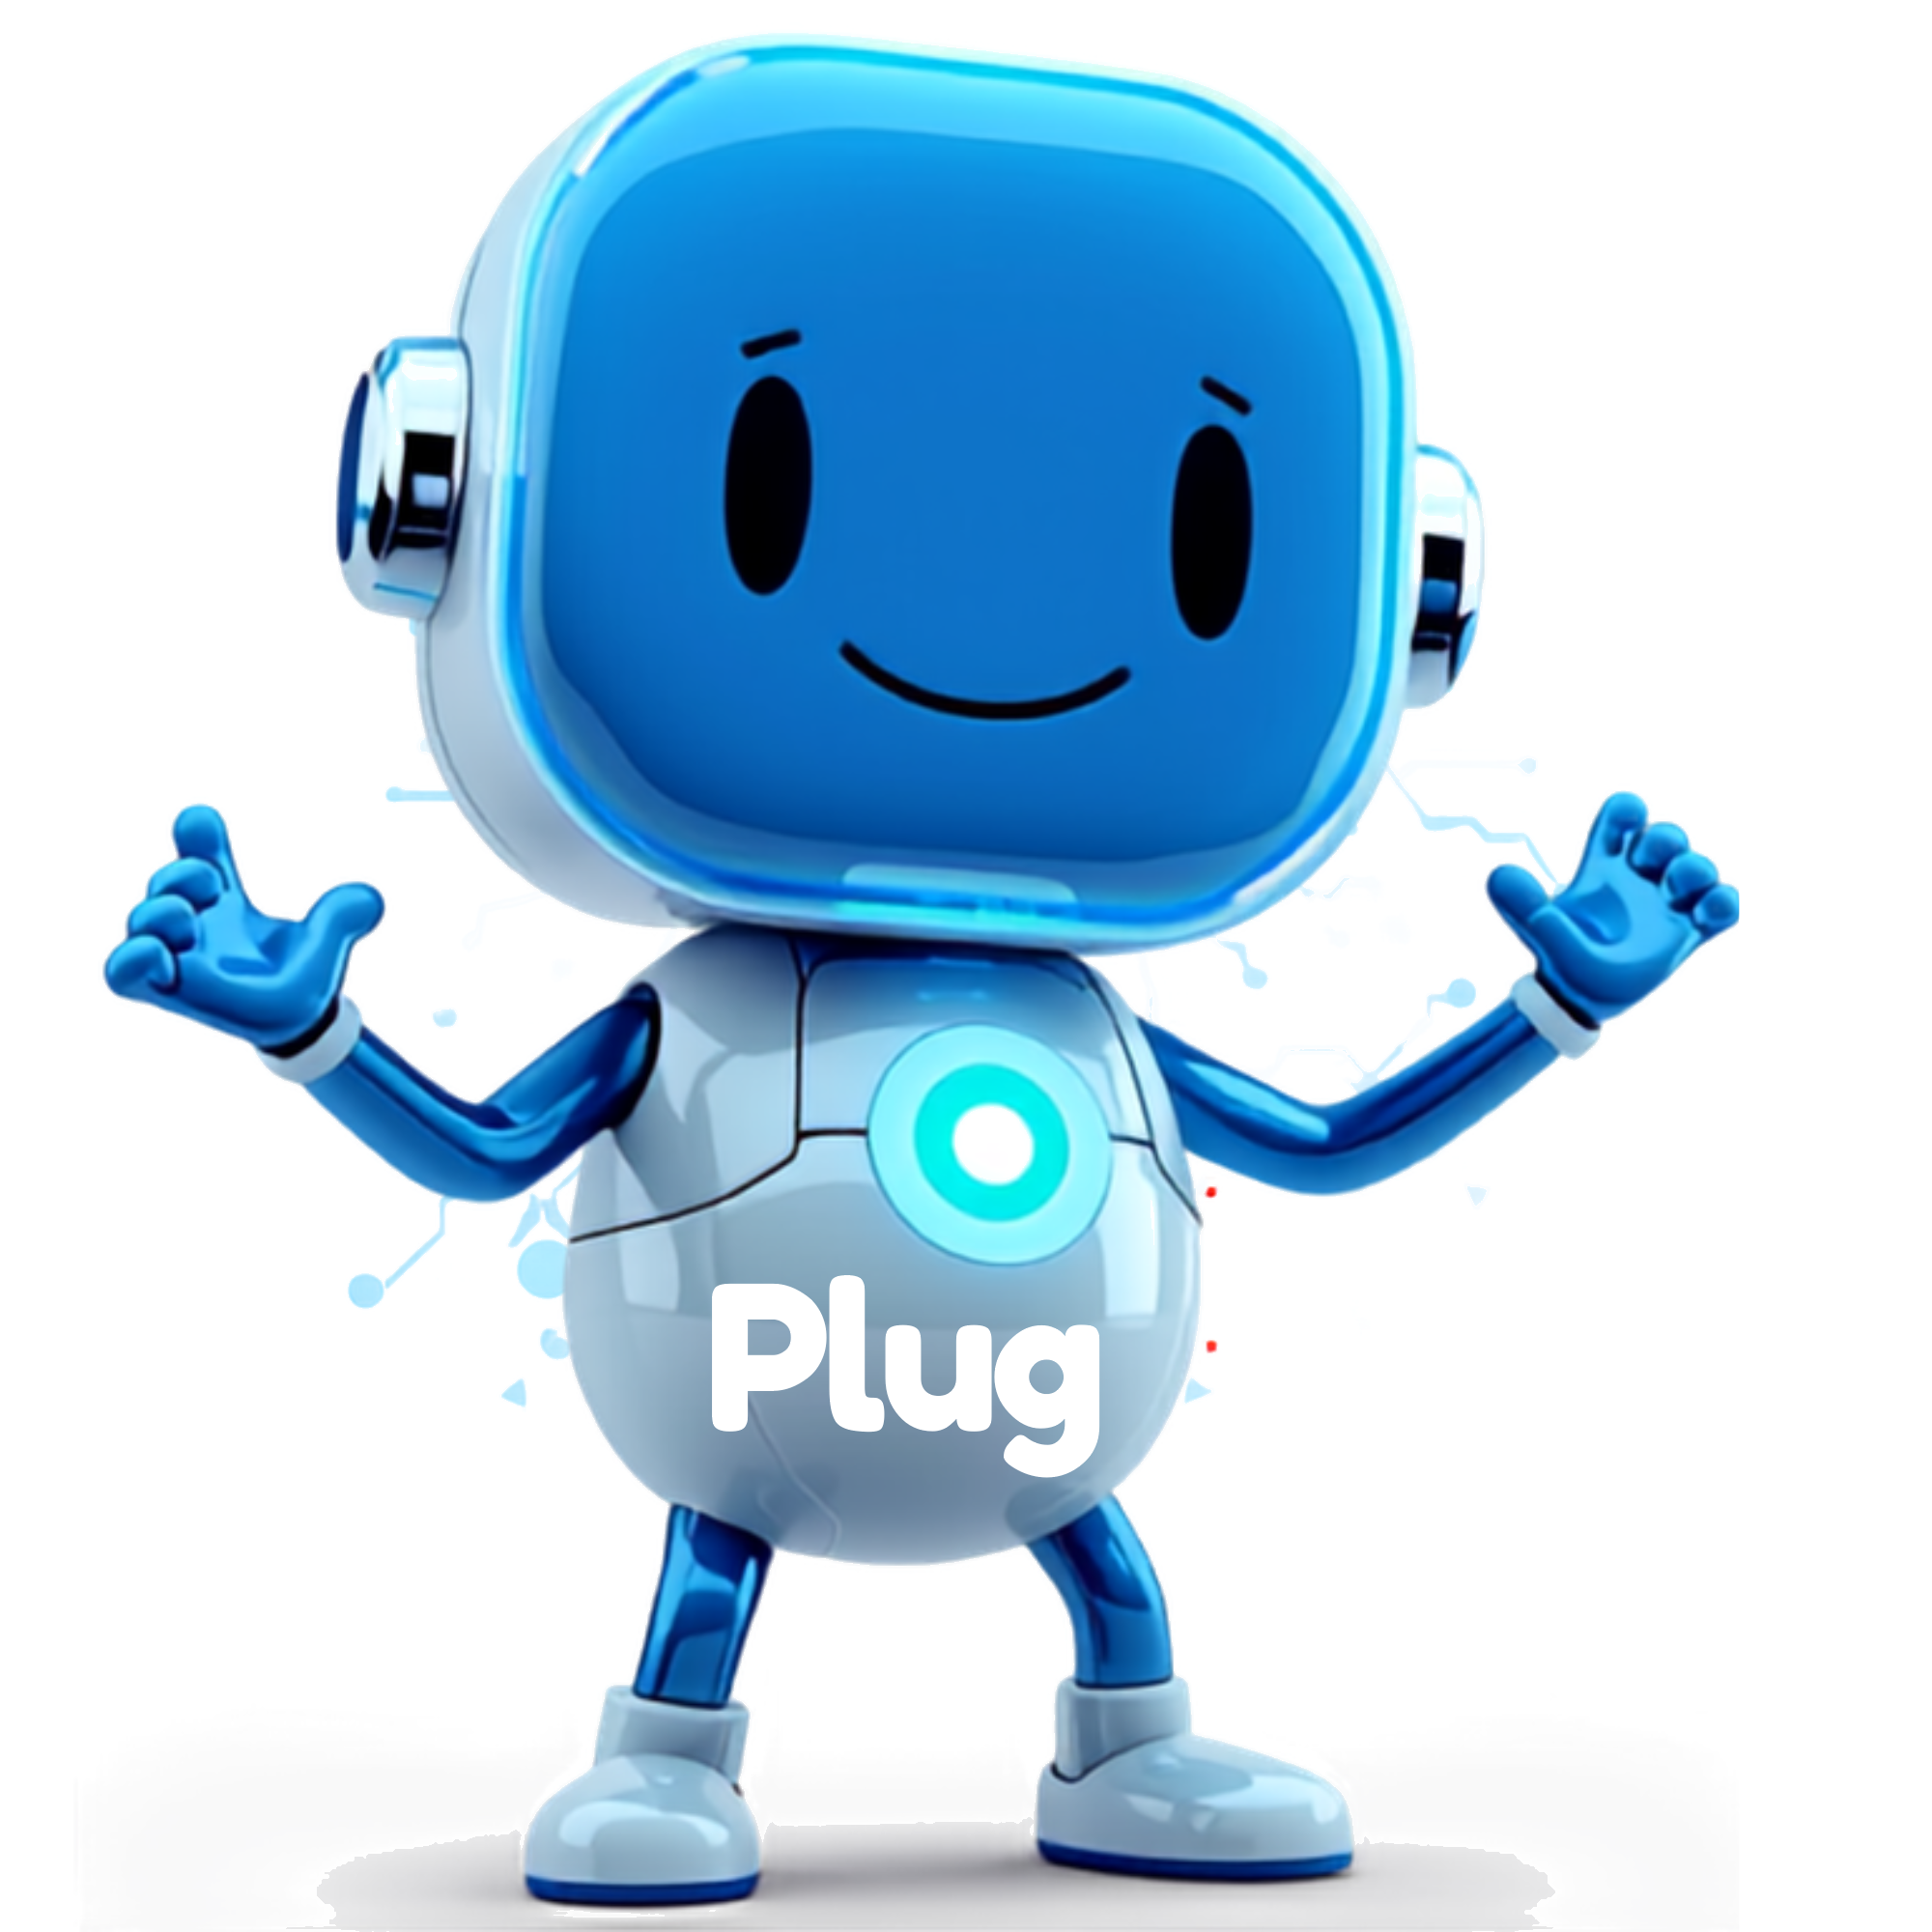
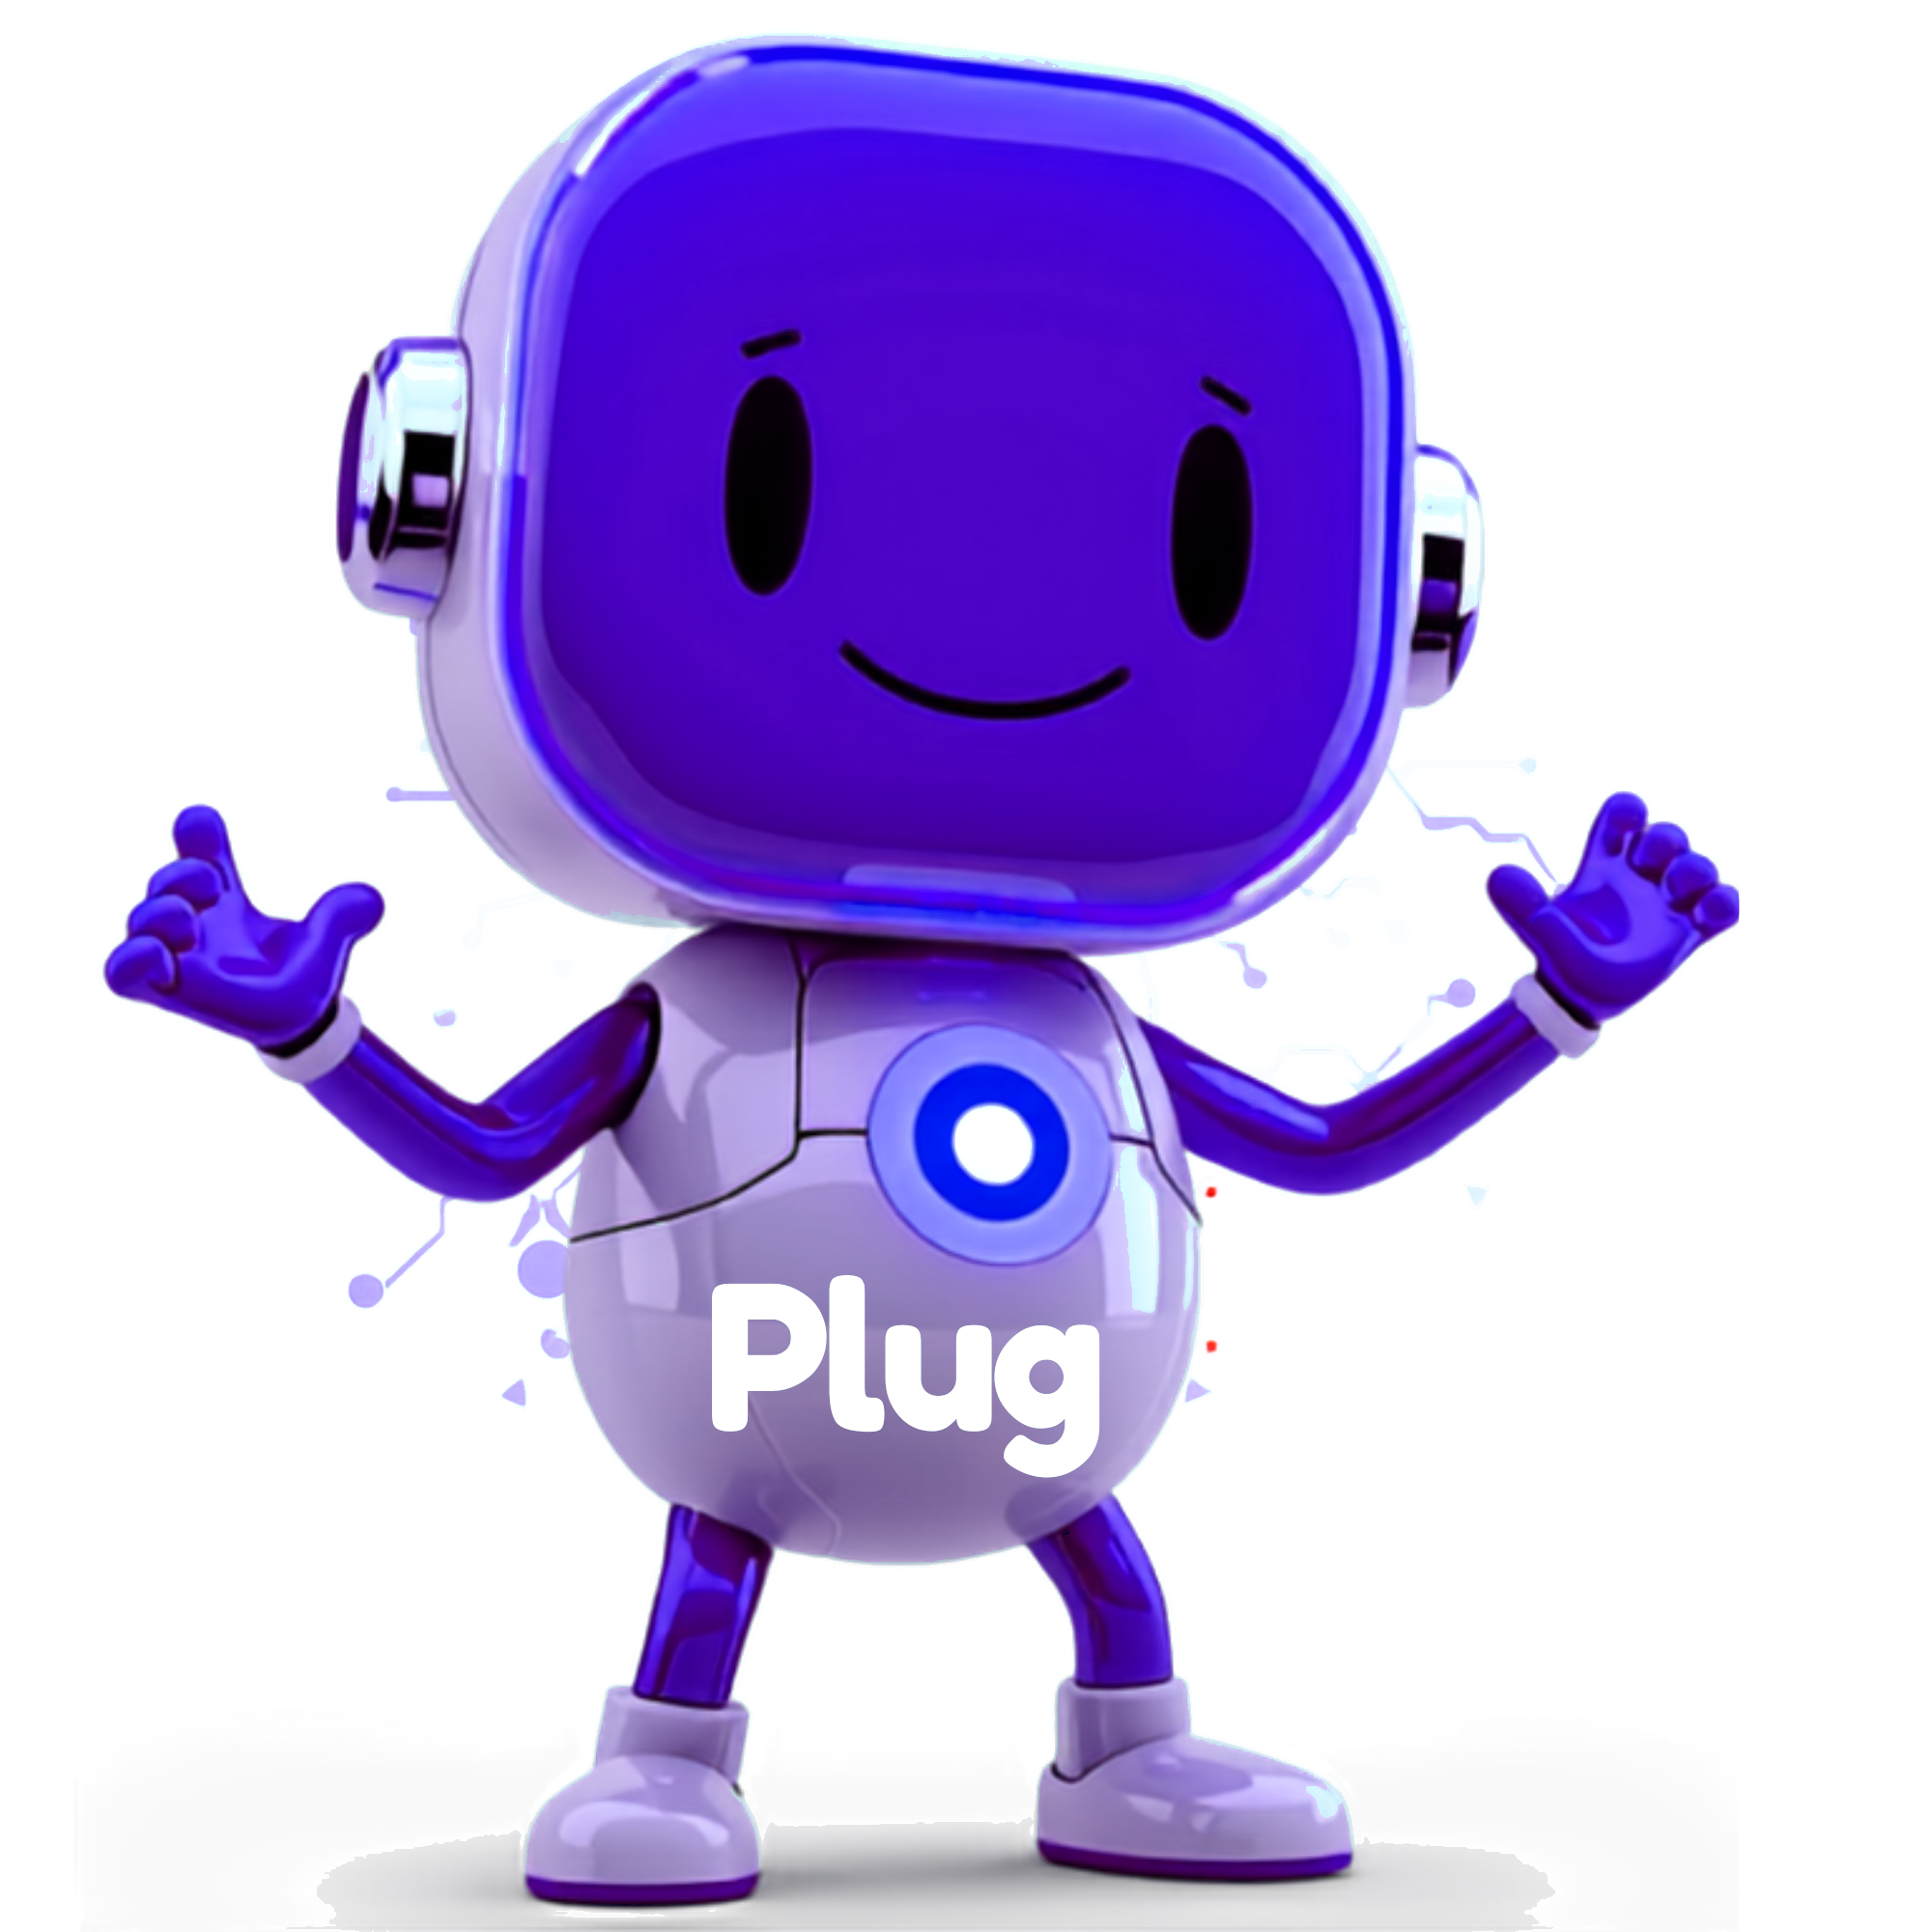
auto-commit for c1f267dc-94a0-4358-bf0f-ec2353e083d0

diff --git a/frontend/src/components/Industries.jsx b/frontend/src/components/Industries.jsx
@@ -1,61 +1,227 @@
 import { motion } from "framer-motion";
 import { INDUSTRIES, INDUSTRY_ICONS } from "../lib/constants";
-import { Sparkles, TrendingUp, Activity, BarChart3 } from "lucide-react";
+import { Sparkles, TrendingUp, Activity, BarChart3, PieChart as PieIcon, LineChart as LineIcon, Gauge } from "lucide-react";
 
-// Mini analytics panel rendered on card BACK
-function MiniDashboard({ ind, icon: Icon }) {
-  const bars = [62, 78, 45, 90, 68, 84, 55, 73];
+// Assign a chart type to each industry so dashboards vary
+const CHART_BY_INDUSTRY = {
+  "Manufacturing": "line",
+  "Education":     "pie",
+  "Real Estate":   "bar",
+  "Call Center":   "donut",
+  "FMCG":          "bar2",
+  "Logistics":     "line2",
+  "Insurance":     "donut2",
+  "Retail":        "heat",
+};
+
+const PALETTE = ["#8B5CF6", "#A78BFA", "#C4B5FD", "#6D28D9", "#DDD6FE"];
+
+// ---------------- Chart components (lightweight, no deps) ----------------
+function BarChart({ values, color = "#8B5CF6" }) {
+  const max = Math.max(...values);
   return (
-    <div className="absolute inset-0 rounded-3xl bg-pdblack overflow-hidden border border-pdpurple/30 p-5 flex flex-col">
-      <div className="absolute inset-0 opacity-30"
-        style={{ backgroundImage: "linear-gradient(rgba(139,92,246,0.18) 1px, transparent 1px), linear-gradient(90deg, rgba(139,92,246,0.18) 1px, transparent 1px)",
-                  backgroundSize: "24px 24px" }} />
-      <div className="absolute -top-10 -right-10 size-40 rounded-full bg-pdpurple/30 blur-3xl" />
+    <div className="flex items-end gap-1.5 h-20">
+      {values.map((v, i) => (
+        <motion.div
+          key={i}
+          initial={{ height: 0 }} whileInView={{ height: `${(v / max) * 100}%` }} viewport={{ once: true }}
+          transition={{ delay: i * 0.05, duration: 0.6 }}
+          className="flex-1 rounded-t-md"
+          style={{ background: `linear-gradient(180deg, ${color} 0%, ${color}55 100%)` }}
+        />
+      ))}
+    </div>
+  );
+}
 
-      <div className="relative flex items-center gap-2 mb-3">
-        <Icon className="size-4 text-pdpurple-soft" />
-        <div className="text-[10px] uppercase tracking-[0.2em] text-pdpurple-soft font-semibold">{ind.name} · Live KPIs</div>
-      </div>
+function LineChart({ values, color = "#8B5CF6" }) {
+  const max = Math.max(...values);
+  const min = Math.min(...values);
+  const points = values.map((v, i) => {
+    const x = (i / (values.length - 1)) * 100;
+    const y = 100 - ((v - min) / (max - min || 1)) * 90 - 5;
+    return [x, y];
+  });
+  const path = points.map(([x, y], i) => (i === 0 ? `M${x},${y}` : `L${x},${y}`)).join(" ");
+  const area = `${path} L100,100 L0,100 Z`;
+  return (
+    <svg viewBox="0 0 100 100" preserveAspectRatio="none" className="w-full h-20">
+      <defs>
+        <linearGradient id="lg-fill" x1="0" x2="0" y1="0" y2="1">
+          <stop offset="0%" stopColor={color} stopOpacity="0.35" />
+          <stop offset="100%" stopColor={color} stopOpacity="0" />
+        </linearGradient>
+      </defs>
+      <path d={area} fill="url(#lg-fill)" />
+      <motion.path d={path} fill="none" stroke={color} strokeWidth="2"
+        initial={{ pathLength: 0 }} whileInView={{ pathLength: 1 }} viewport={{ once: true }}
+        transition={{ duration: 1.2 }} />
+      {points.map(([x, y], i) => (
+        <circle key={i} cx={x} cy={y} r="1.4" fill={color} />
+      ))}
+    </svg>
+  );
+}
 
-      {/* KPI tiles */}
-      <div className="relative grid grid-cols-2 gap-2 mb-3">
-        {ind.stats.map((s) => (
-          <div key={s.k} className="rounded-xl bg-white/8 border border-pdpurple/30 px-2.5 py-2 backdrop-blur">
-            <div className="text-[9px] uppercase tracking-wider text-pdpurple-soft/80">{s.k}</div>
-            <div className="font-display text-lg text-white font-semibold">{s.v}</div>
-          </div>
-        ))}
-      </div>
-
-      {/* Sparkline area */}
-      <div className="relative rounded-xl bg-white/5 border border-pdpurple/25 p-2.5 mb-2.5 flex-1 flex flex-col">
-        <div className="flex items-center justify-between text-[10px] text-pdpurple-soft/80 mb-2">
-          <span className="flex items-center gap-1"><Activity className="size-3" /> Throughput · 7d</span>
-          <span className="text-emerald-400 flex items-center gap-1"><TrendingUp className="size-3" /> ↑ {ind.roi}</span>
-        </div>
-        <div className="flex items-end gap-1 h-12">
-          {bars.map((h, i) => (
-            <div key={i} className="flex-1 rounded-t-sm bg-gradient-to-t from-pdpurple/40 to-pdpurple-soft"
-                 style={{ height: `${h}%` }} />
-          ))}
-        </div>
-      </div>
-
-      {/* Use cases */}
-      <div className="relative flex flex-wrap gap-1.5">
-        {ind.useCases.slice(0, 3).map((u) => (
-          <span key={u} className="text-[10px] px-2 py-0.5 rounded-full bg-pdpurple/20 border border-pdpurple/30 text-pdpurple-soft">{u}</span>
-        ))}
-      </div>
-
-      <div className="relative mt-2.5 flex items-center gap-2 text-[10px] text-white/60">
-        <BarChart3 className="size-3 text-pdpurple-soft" />
-        Hover to flip · click for full case study
+function Donut({ value, label, color = "#8B5CF6" }) {
+  const r = 32, c = 2 * Math.PI * r;
+  const offset = c * (1 - value / 100);
+  return (
+    <div className="relative size-24 mx-auto">
+      <svg viewBox="0 0 80 80" className="w-full h-full -rotate-90">
+        <circle cx="40" cy="40" r={r} stroke="#EDE9FE" strokeWidth="8" fill="none" />
+        <motion.circle cx="40" cy="40" r={r} stroke={color} strokeWidth="8" fill="none"
+          strokeLinecap="round" strokeDasharray={c}
+          initial={{ strokeDashoffset: c }} whileInView={{ strokeDashoffset: offset }} viewport={{ once: true }}
+          transition={{ duration: 1.2 }} />
+      </svg>
+      <div className="absolute inset-0 flex flex-col items-center justify-center">
+        <div className="font-display text-xl font-semibold text-pdblack">{value}%</div>
+        <div className="text-[9px] uppercase tracking-wider text-pdpurple/70">{label}</div>
       </div>
     </div>
   );
 }
 
+function PieSlices({ slices }) {
+  // slices: [{label, value, color}]
+  const total = slices.reduce((s, x) => s + x.value, 0);
+  let acc = 0;
+  const r = 28, cx = 40, cy = 40;
+  return (
+    <div className="flex items-center gap-3">
+      <svg viewBox="0 0 80 80" className="size-24">
+        {slices.map((s, i) => {
+          const start = (acc / total) * Math.PI * 2 - Math.PI / 2;
+          acc += s.value;
+          const end = (acc / total) * Math.PI * 2 - Math.PI / 2;
+          const x1 = cx + r * Math.cos(start), y1 = cy + r * Math.sin(start);
+          const x2 = cx + r * Math.cos(end),   y2 = cy + r * Math.sin(end);
+          const large = end - start > Math.PI ? 1 : 0;
+          return <path key={i} d={`M${cx},${cy} L${x1},${y1} A${r},${r} 0 ${large} 1 ${x2},${y2} Z`} fill={s.color} />;
+        })}
+        <circle cx={cx} cy={cy} r={12} fill="#FFFFFF" />
+      </svg>
+      <div className="space-y-1">
+        {slices.map((s, i) => (
+          <div key={i} className="flex items-center gap-1.5 text-[10px] text-pdblack/70">
+            <span className="size-2 rounded-full" style={{ background: s.color }} />
+            <span className="font-medium text-pdblack/80">{s.label}</span>
+            <span className="text-pdblack/50">{Math.round((s.value / total) * 100)}%</span>
+          </div>
+        ))}
+      </div>
+    </div>
+  );
+}
+
+function Heatmap() {
+  const cells = Array.from({ length: 21 });
+  return (
+    <div className="grid grid-cols-7 gap-1">
+      {cells.map((_, i) => {
+        const intensity = ((i * 37) % 100) / 100;
+        return (
+          <motion.div
+            key={i}
+            initial={{ opacity: 0 }} whileInView={{ opacity: 1 }} viewport={{ once: true }}
+            transition={{ delay: i * 0.02 }}
+            className="aspect-square rounded-sm"
+            style={{ background: `rgba(139,92,246,${0.15 + intensity * 0.7})` }}
+          />
+        );
+      })}
+    </div>
+  );
+}
+
+// ---------------- Dashboard panel (light theme, varies by chart type) -----
+function MiniDashboard({ ind, icon: Icon }) {
+  const type = CHART_BY_INDUSTRY[ind.name] || "bar";
+
+  let chart, chartLabel, chartIcon;
+  if (type === "line") {
+    chart = <LineChart values={[40, 55, 48, 62, 70, 78, 82]} />;
+    chartLabel = "Production · 7d"; chartIcon = LineIcon;
+  } else if (type === "line2") {
+    chart = <LineChart values={[20, 35, 30, 50, 45, 65, 70]} color="#6D28D9" />;
+    chartLabel = "Deliveries · 7d"; chartIcon = LineIcon;
+  } else if (type === "bar") {
+    chart = <BarChart values={[55, 68, 72, 80, 88, 92, 95]} />;
+    chartLabel = "Qualified leads"; chartIcon = BarChart3;
+  } else if (type === "bar2") {
+    chart = <BarChart values={[60, 45, 75, 50, 90, 65, 80]} color="#A78BFA" />;
+    chartLabel = "Coverage by region"; chartIcon = BarChart3;
+  } else if (type === "donut") {
+    chart = <Donut value={70} label="Deflection" />;
+    chartLabel = "L1 deflection"; chartIcon = Gauge;
+  } else if (type === "donut2") {
+    chart = <Donut value={88} label="Renewals" color="#6D28D9" />;
+    chartLabel = "Renewal rate"; chartIcon = Gauge;
+  } else if (type === "pie") {
+    chart = <PieSlices slices={[
+      { label: "UG",       value: 42, color: PALETTE[0] },
+      { label: "PG",       value: 28, color: PALETTE[1] },
+      { label: "Diploma",  value: 18, color: PALETTE[2] },
+      { label: "Exec Ed",  value: 12, color: PALETTE[3] },
+    ]} />;
+    chartLabel = "Programme mix"; chartIcon = PieIcon;
+  } else if (type === "heat") {
+    chart = <Heatmap />;
+    chartLabel = "Returns heatmap · 3w"; chartIcon = Activity;
+  }
+
+  const ChartIcon = chartIcon || BarChart3;
+
+  return (
+    <div className="absolute inset-0 rounded-3xl bg-gradient-to-br from-pdpurple-bg via-white to-pdpurple-bg overflow-hidden border border-pdpurple/30 p-5 flex flex-col">
+      <div className="absolute inset-0 opacity-30 pointer-events-none"
+        style={{ backgroundImage: "linear-gradient(rgba(139,92,246,0.08) 1px, transparent 1px), linear-gradient(90deg, rgba(139,92,246,0.08) 1px, transparent 1px)",
+                  backgroundSize: "20px 20px" }} />
+      <div className="absolute -top-10 -right-10 size-40 rounded-full bg-pdpurple/15 blur-3xl pointer-events-none" />
+
+      <div className="relative flex items-center gap-2 mb-3">
+        <div className="size-7 rounded-lg bg-pdpurple/15 flex items-center justify-center">
+          <Icon className="size-3.5 text-pdpurple" />
+        </div>
+        <div>
+          <div className="text-[10px] uppercase tracking-[0.2em] text-pdpurple font-semibold">{ind.name}</div>
+          <div className="text-[10px] text-pdblack/55">Live operational KPIs</div>
+        </div>
+      </div>
+
+      {/* KPI tiles */}
+      <div className="relative grid grid-cols-2 gap-2 mb-3">
+        {ind.stats.map((s) => (
+          <div key={s.k} className="rounded-xl bg-white border border-pdpurple/15 px-2.5 py-1.5">
+            <div className="text-[9px] uppercase tracking-wider text-pdpurple/70">{s.k}</div>
+            <div className="font-display text-base text-pdblack font-semibold">{s.v}</div>
+          </div>
+        ))}
+      </div>
+
+      {/* Chart panel */}
+      <div className="relative rounded-xl bg-white border border-pdpurple/15 p-3 flex-1 flex flex-col">
+        <div className="flex items-center justify-between text-[10px] text-pdblack/60 mb-2">
+          <span className="flex items-center gap-1 font-semibold text-pdblack/70"><ChartIcon className="size-3 text-pdpurple" /> {chartLabel}</span>
+          <span className="text-emerald-600 flex items-center gap-0.5 font-semibold"><TrendingUp className="size-3" /> {ind.roi}</span>
+        </div>
+        <div className="flex-1 flex items-center">
+          <div className="w-full">{chart}</div>
+        </div>
+      </div>
+
+      {/* Use cases */}
+      <div className="relative mt-2.5 flex flex-wrap gap-1.5">
+        {ind.useCases.slice(0, 3).map((u) => (
+          <span key={u} className="text-[10px] px-2 py-0.5 rounded-full bg-pdpurple/10 border border-pdpurple/20 text-pdpurple">{u}</span>
+        ))}
+      </div>
+    </div>
+  );
+}
+
+// ---------------- Section ----------------
 export default function Industries() {
   return (
     <section id="industries" data-testid="industries-section" className="relative py-24 lg:py-32 bg-white overflow-hidden">
@@ -71,7 +237,7 @@ export default function Industries() {
             </h2>
           </div>
           <p className="text-base lg:text-lg text-pdblack/60 max-w-md">
-            Hover any card to flip and see real KPIs the agent moves in that vertical.
+            Hover any card to flip and see the live operational KPIs the agent moves — each industry has its own dashboard.
           </p>
         </div>
 
@@ -98,15 +264,13 @@ export default function Industries() {
                     </div>
 
                     <h3 className="font-display text-2xl lg:text-3xl font-semibold text-pdblack mb-3 leading-tight">{ind.name}</h3>
-                    <p className="text-sm text-pdblack/70 leading-relaxed mb-4 line-clamp-3">{ind.challenge}</p>
+                    <p className="text-sm lg:text-base text-pdblack/70 leading-relaxed mb-4 line-clamp-3">{ind.challenge}</p>
 
-                    {/* prominent ROI badge */}
                     <div className="inline-flex items-center gap-2 text-sm font-semibold text-white bg-pdpurple rounded-full px-4 py-2 mb-4">
                       <Sparkles className="size-3.5" />
                       {ind.roi}
                     </div>
 
-                    {/* Top 2 use cases (bigger text) */}
                     <div className="flex flex-wrap gap-2">
                       {ind.useCases.slice(0, 3).map((u) => (
                         <span key={u} className="text-sm px-3 py-1 rounded-full bg-pdpurple/8 border border-pdpurple/20 text-pdblack/80">
@@ -120,7 +284,7 @@ export default function Industries() {
                     </div>
                   </div>
 
-                  {/* BACK — dashboard */}
+                  {/* BACK — light dashboard */}
                   <div className="absolute inset-0 [backface-visibility:hidden] [transform:rotateY(180deg)]">
                     <MiniDashboard ind={ind} icon={Icon} />
                   </div>

diff --git a/scripts/refresh_assets2.py b/scripts/refresh_assets2.py
@@ -1,0 +1,77 @@
+"""Regenerate the older 'younger Indian woman' hero on a clean WHITE background,
+and recolor the Plug mascot to a purple-themed palette.
+"""
+import os, asyncio, base64, urllib.request
+from pathlib import Path
+from dotenv import load_dotenv
+from PIL import Image
+import colorsys
+from emergentintegrations.llm.chat import LlmChat, UserMessage
+
+ROOT = Path(__file__).parent.parent
+load_dotenv(ROOT / "backend" / ".env")
+OUT = ROOT / "frontend" / "public" / "agents"
+OUT.mkdir(parents=True, exist_ok=True)
+API_KEY = os.environ["EMERGENT_LLM_KEY"]
+
+HERO_PROMPT = (
+    "A premium close-up cinematic portrait of a YOUNG South Asian / Indian woman "
+    "(early 20s) as a futuristic AI digital workforce avatar. Soft warm brown "
+    "eyes, gentle confident smile, smooth youthful Indian features, full lips. "
+    "The right side of her face is warm human skin; the left side seamlessly "
+    "transitions into a polished chrome-and-violet robotic helmet with visible "
+    "micro-circuitry, glowing neon ear ring, exposed neck cables and a "
+    "transparent polycarbonate cheek-piece revealing internal violet machinery. "
+    "Long dark sleek hair flows back and integrates into the helmet design. "
+    "Three-quarter studio portrait, soft purple rim lighting, isolated on a "
+    "completely PURE WHITE studio background (#FFFFFF) — no environment, no "
+    "extra props. Photorealistic, cinematic, premium enterprise look. "
+    "Brand color #8B5CF6."
+)
+
+
+async def gen_hero():
+    chat = LlmChat(api_key=API_KEY, session_id="plugdrop-hero-young-white",
+                   system_message="Expert AI image generator. Produce one premium hero portrait.")
+    chat.with_model("gemini", "gemini-3.1-flash-image-preview").with_params(modalities=["image", "text"])
+    text, images = await chat.send_message_multimodal_response(UserMessage(text=HERO_PROMPT))
+    if not images:
+        print("ERR hero:", text[:200]); return
+    (OUT / "hero.png").write_bytes(base64.b64decode(images[0]["data"]))
+    print("OK hero.png")
+
+
+def recolor_mascot():
+    """Shift the blue hues of the mascot to purple."""
+    src = ROOT / "frontend" / "public" / "mascot.png"
+    img = Image.open(src).convert("RGBA")
+    W, H = img.size
+    px = img.load()
+    # PlugDrop purple ~ H=265 deg (HSV). Mascot blue ~ H=210 deg. Need to shift by +55deg.
+    # Map: any pixel whose H is between 180-240 (blueish), shift to 250-300 (purple).
+    for y in range(H):
+        for x in range(W):
+            r, g, b, a = px[x, y]
+            if a < 8:
+                continue
+            rr, gg, bb = r / 255, g / 255, b / 255
+            h, s, v = colorsys.rgb_to_hsv(rr, gg, bb)
+            hue_deg = h * 360
+            if s < 0.18:  # near-grey / white — leave alone
+                continue
+            if 175 <= hue_deg <= 245:  # blue spectrum -> purple
+                new_hue = (hue_deg + 55) % 360
+                nr, ng, nb = colorsys.hsv_to_rgb(new_hue / 360, min(1.0, s * 1.05), v)
+                px[x, y] = (int(nr * 255), int(ng * 255), int(nb * 255), a)
+            elif 240 < hue_deg <= 260:  # already purple-ish — boost saturation slightly
+                nr, ng, nb = colorsys.hsv_to_rgb(h, min(1.0, s * 1.1), v)
+                px[x, y] = (int(nr * 255), int(ng * 255), int(nb * 255), a)
+    img.save(src, optimize=True)
+    print(f"OK mascot recolored to purple ({W}x{H})")
+
+
+async def main():
+    recolor_mascot()
+    await gen_hero()
+
+asyncio.run(main())